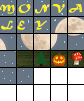
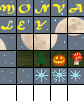
Added animated twinkling stars to title screen

Changed region(s): [[0.4048, 0.6535, 1.0, 0.8317]]

diff --git a/src/Tilesets/TitleTileset.java b/src/Tilesets/TitleTileset.java
@@ -198,6 +198,26 @@ public class TitleTileset extends Tileset {
 
 		mapTiles.add(nightSky2);
 		
+		// Twinkling star/planet?
+		
+        Frame[] twinkleStarFrame = new Frame[] {
+        		
+                new FrameBuilder(getSubImage(4, 2), 500)
+                    .withScale(tileScale)
+                    .build(),
+                new FrameBuilder(getSubImage(4, 3), 500)
+                        .withScale(tileScale)
+                        .build(),
+                new FrameBuilder(getSubImage(4, 4), 500)
+                        .withScale(tileScale)
+                        .build(),
+
+        };
+        
+        MapTileBuilder twinkleStarTile = new MapTileBuilder(twinkleStarFrame);
+
+        mapTiles.add(twinkleStarTile);
+		
 		
 		
 		
